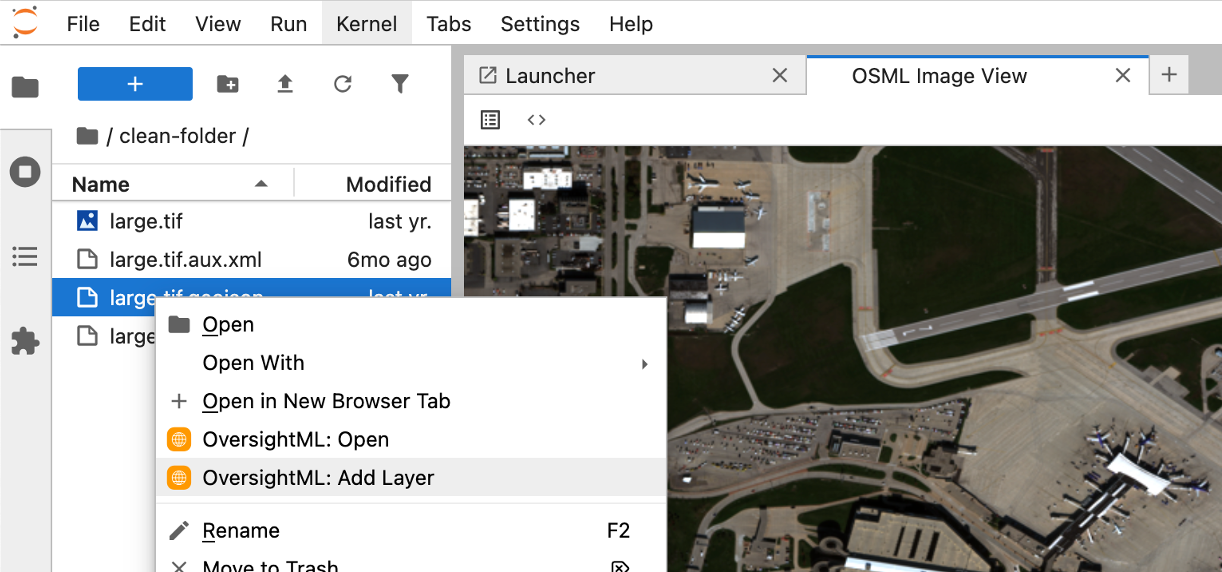
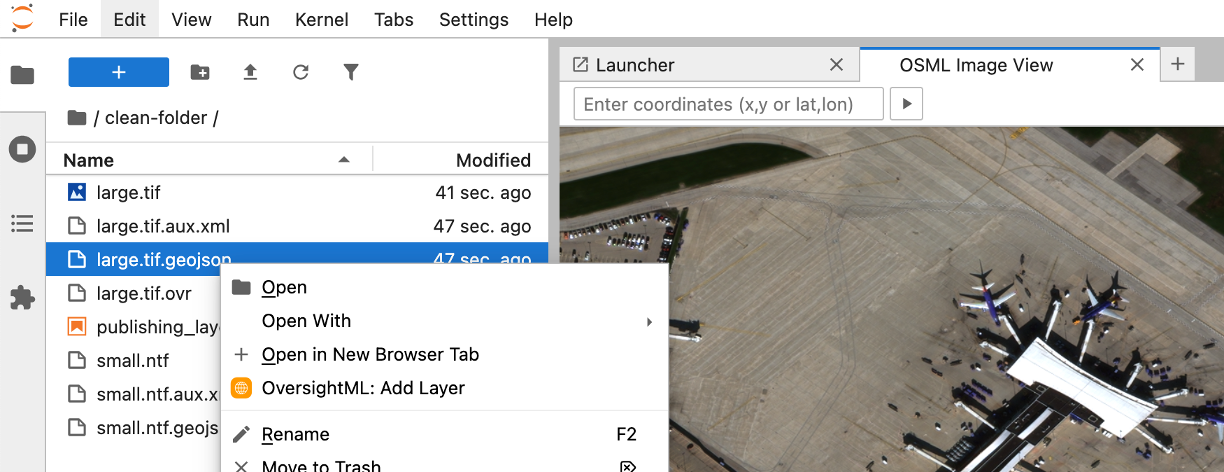
docs: updated user guide

diff --git a/docs/USER_GUIDE.md b/docs/USER_GUIDE.md
@@ -61,38 +61,60 @@ The image viewer is built using Deck.gl which provides common navigation control
 
 The viewer is optimized for large satellite imagery files and will load additional detail as you zoom in.
 
-### 4. Viewing Feature Properties
+#### Geographic Navigation with GeoJump
 
-To inspect the properties of overlaid features:
+The toolbar includes a coordinate input tool that enables direct navigation to specific locations:
 
-1. **Right-click** on any feature (point, line, or polygon) in an overlay layer
-2. A **properties dialog** will appear showing all metadata associated with that feature
+![GeoJump coordinate input](images/geojump-toolbar.png)
 
-![Feature properties dialog](images/feature-properties-dialog.png)
+1. **Enter coordinates** in the input field using either:
+   - **Image coordinates**: `x,y` format (e.g., `1024,768`)
+   - **World coordinates**: `latitude,longitude` format (e.g., `40.7128,-74.0060`)
+2. **Press Enter** or click the navigation button to fly to the specified location
+3. The viewer will automatically pan and zoom to center on the requested coordinates
 
-This is particularly useful for examining detection types, confidence scores, or other analytical data embedded in your GeoJSON features. A search bar is available to filter the properties down to items matching a selected key.
+### 4. Using the Property Inspector
 
-### 5. Viewing Image Metadata
+The property inspector in the right sidebar provides comprehensive information about your current selection, layers, and image metadata. This panel is used in the same way the notebook property inspector is used within JupyterLab. It contains three main sections:
 
-To access metadata about the loaded satellite image:  
-![Image metadata dialog](images/image-metadata-tool.png)
+![Property inspector overview](images/property-inspector-overview.png)
 
-1. **Click the metadata tool** in the image viewer toolbar
-2. The **Image Metadata Dialog** will open, displaying metadata unique to each image.
+#### Current Selection Properties
 
-### 6. Managing Layers
+The property inspector displays different information based on what you've selected:
 
-To view and control your overlay layers:  
-![Image metadata dialog](images/layer-control-tool.png)
+**Feature Selection**: When you click on any feature (point, line, or polygon) from an overlay layer, the property inspector shows all metadata associated with that feature, including detection types, confidence scores, or other analytical data embedded in your GeoJSON features.
 
-1. **Click the layers tool** in the image viewer toolbar
-2. The **Layer Control Dialog** will open, allowing you to:
-   - View all active layers
-   - Toggle layer visibility on/off
-   - Remove layers from the display
-   - Add layers published from a notebook to the display (see: Advanced Usage)
+**Location Selection**: When you click on a location on the image (not on a feature), the property inspector displays both image coordinates (pixel position) and world coordinates (latitude/longitude) for that location.
 
-![Layer control dialog](images/layer-control-dialog.png)
+![Current selection properties](images/current-selection-properties.png)
+
+> **⚠ Coordinate Accuracy Note**: World coordinates are calculated using the image's sensor model without external elevation data. For improved accuracy, future releases will integrate digital elevation models. See [LIMITATIONS.md](LIMITATIONS.md) for details.
+
+#### Image Metadata
+
+The property inspector displays comprehensive metadata about the currently loaded satellite image, including sensor information, acquisition details, and geospatial properties.
+
+![Image metadata panel](images/image-metadata-panel.png)
+
+#### Layer Management
+
+The layer management section allows you to:
+
+- View all active layers
+- Toggle layer visibility on/off
+- Remove layers from the display
+- Add layers published from a notebook to the display (see: Advanced Usage)
+
+![Layer management panel](images/layer-management-panel.png)
+
+### 5. Viewing Logging Information
+
+Extension logging information is available through JupyterLab's log console for troubleshooting and system monitoring.
+
+**To view logs**: Open `View` → `Show Log Console` from the main menu
+
+The logs contain image loading status, layer management events, coordinate transformations, and error messages.
 
 ## Advanced Usage
 

diff --git a/docs/ROADMAP.md b/docs/ROADMAP.md
@@ -8,14 +8,6 @@ The extension is currently in **Release Candidate/MVP** phase, with core functio
 
 ## Core Navigation & Interaction
 
-### GeoJump
-
-Navigate directly to specific world coordinates by entering latitude/longitude values. This control will allow users to quickly jump to areas of interest without manual panning and zooming.
-
-### GeoLocate
-
-Click anywhere on satellite imagery to get precise world coordinates using the image's sensor model. This feature will provide accurate geographic positioning that accounts for sensor geometry and terrain effects.
-
 ### Elevation Models
 
 Configure digital elevation models to improve geometric calculations and coordinate transformations. This will enhance the accuracy of coordinate conversions and overlay positioning, particularly important for imagery with significant terrain variation.

diff --git a/docs/LIMITATIONS.md b/docs/LIMITATIONS.md
@@ -40,6 +40,12 @@ This document outlines current limitations, known issues, and important consider
 
 ## Functional Limitations
 
+### World Coordinate Accuracy
+
+- **Current Implementation**: World coordinates are calculated using the image's sensor model without external elevation data
+- **Impact**: Coordinate accuracy may be reduced, particularly in areas with significant terrain variation
+- **Future Enhancement**: Integration with digital elevation models is planned to improve coordinate transformation accuracy
+
 ### Format Support
 
 - **Current Support**: NITF, GeoTIFF, SICD, SIDD, and GeoJSON datasets
